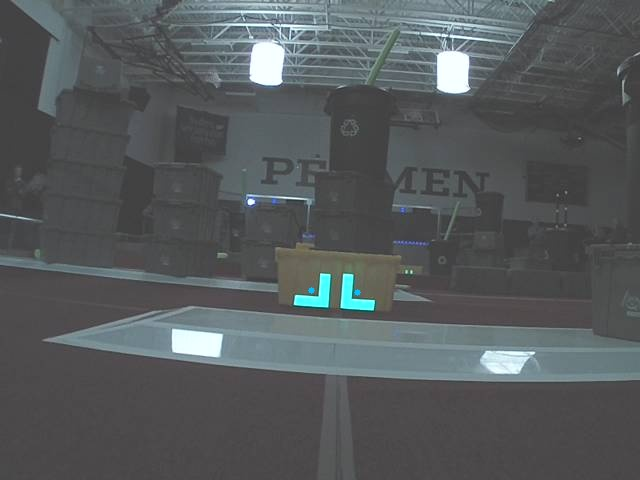
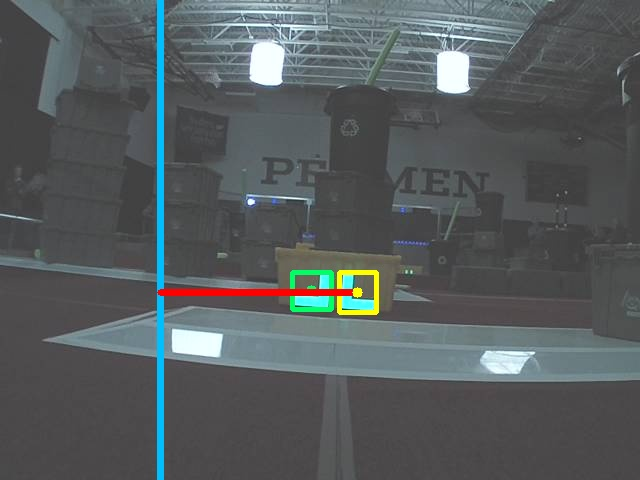
Updated Retro-reflective algorithm

Changed region(s): [[0.2188, 0.0, 0.5938, 1.0]]

diff --git a/Retro_reflective/src/SmartContour.java b/Retro_reflective/src/SmartContour.java
@@ -5,24 +5,56 @@ import org.opencv.core.Point;
 public class SmartContour {
 	double left, right, top, bottom;
 	double width, height, area, aspectRatio;
-	Point center;
+	Point center, topLeft, bottomRight, avgPoint;
+	boolean isLeft = true, isRight = true;
 	
 	SmartContour(MatOfPoint contour){
 		Point[] points = contour.toArray();
-		double left = Double.MAX_VALUE, right = 0, bottom = Double.MAX_VALUE, top = 0;
+		double left = Double.MAX_VALUE, right = 0, bottom = 0, top = Double.MAX_VALUE;
 		for(Point p : points){
 			left = (p.x < left) ? p.x : left;
 			right = (p.x > right) ? p.x : right;
-			bottom = (p.y < bottom) ? p.y : bottom;
-			top = (p.y > top) ? p.y : top;
+			bottom = (p.y > bottom) ? p.y : bottom;
+			top = (p.y < top) ? p.y : top;
 		}
-		
+
 		// Scoring
 		this.width = right - left;
-		this.height = top - bottom;
+		this.height = bottom - top;
 		this.area = width * height;
 		this.aspectRatio = width / height;
-		this.center = new Point(right - (width / 2.0), top - (height / 2.0));
+		this.center = new Point(right - (width / 2.0), bottom - (height / 2.0));
+		this.topLeft = new Point(left, top);
+		this.bottomRight = new Point(right, bottom);
+		
+		// X values get larger near the right of the image
+		// Y values get larger near the bottom of the image
+		for(Point p : points){
+			if(p.y < center.y){
+				if(p.x < center.x){
+					isLeft = false;
+				}
+				if(p.x > center.x){
+					isRight = false;
+				}
+			}
+		}
+	}
+	
+	public boolean isLeft(){
+		return isLeft;
+	}
+	
+	public boolean isRight(){
+		return isRight;
+	}
+	
+	public Point getTopLeft(){
+		return topLeft;
+	}
+	
+	public Point getBottomRight(){
+		return bottomRight;
 	}
 
 	public double getLeft() {
@@ -60,4 +92,5 @@ public class SmartContour {
 	public Point getCenter() {
 		return center;
 	}
+	
 }

diff --git a/Retro_reflective/src/Program.java b/Retro_reflective/src/Program.java
@@ -22,9 +22,10 @@ public class Program {
 	public static final double VAL_MAX = 255;
 
 	// Colors
-	static final Scalar COLOR_GREEN = new Scalar(0, 255, 0);
+	static final Scalar COLOR_GREEN = new Scalar(100, 255, 0);
 	static final Scalar COLOR_BLUE = new Scalar(255, 191, 0);
 	static final Scalar COLOR_YELLOW = new Scalar(0, 255, 255);
+	static final Scalar COLOR_RED = new Scalar(0, 0, 255);
 	
 	public static double processImage(String srcpath, String dstpath) {
 		
@@ -136,10 +137,37 @@ public class Program {
 	public static void scoreContours(Mat rawImage, List<SmartContour> contours){
 
 		// Iterate through contours and score to see if they meet criteria
+		// BE CAREFULL WITH MIN AREA (different for 320x240)
+		SmartContour cLeft = null, cRight = null;
 		for(SmartContour c : contours){
 			if(c.getAspectRatio() > 0.80 && c.getAspectRatio() < 2.0 && c.getArea() > 1200){
-				Core.circle(rawImage, c.getCenter(), 3, COLOR_BLUE, -3);
+				if(c.isLeft()){
+					if(cLeft == null){
+						cLeft = c;
+					}
+				}
+				if(c.isRight()){
+					if(cRight == null){
+						cRight = c;
+					}
+				}
 			}
+		}
+		
+		Core.line(rawImage, new Point(rawImage.width()/4, 0), 
+				new Point(rawImage.width()/4, rawImage.height()), 
+				COLOR_BLUE, 5);
+		
+		if(cLeft != null){
+			Core.circle(rawImage, cLeft.getCenter(), 5, COLOR_GREEN, -5);
+			Core.rectangle(rawImage, cLeft.getTopLeft(), cLeft.getBottomRight(), COLOR_GREEN, 3);
+		}
+		
+		if(cRight != null){
+			Core.rectangle(rawImage, cRight.getTopLeft(), cRight.getBottomRight(), COLOR_YELLOW, 3);
+			Core.line(rawImage, new Point(rawImage.width()/4, cRight.getCenter().y), 
+					cRight.getCenter(), COLOR_RED, 5);
+			Core.circle(rawImage, cRight.getCenter(), 5, COLOR_YELLOW, -5);
 		}
 	}
 	
